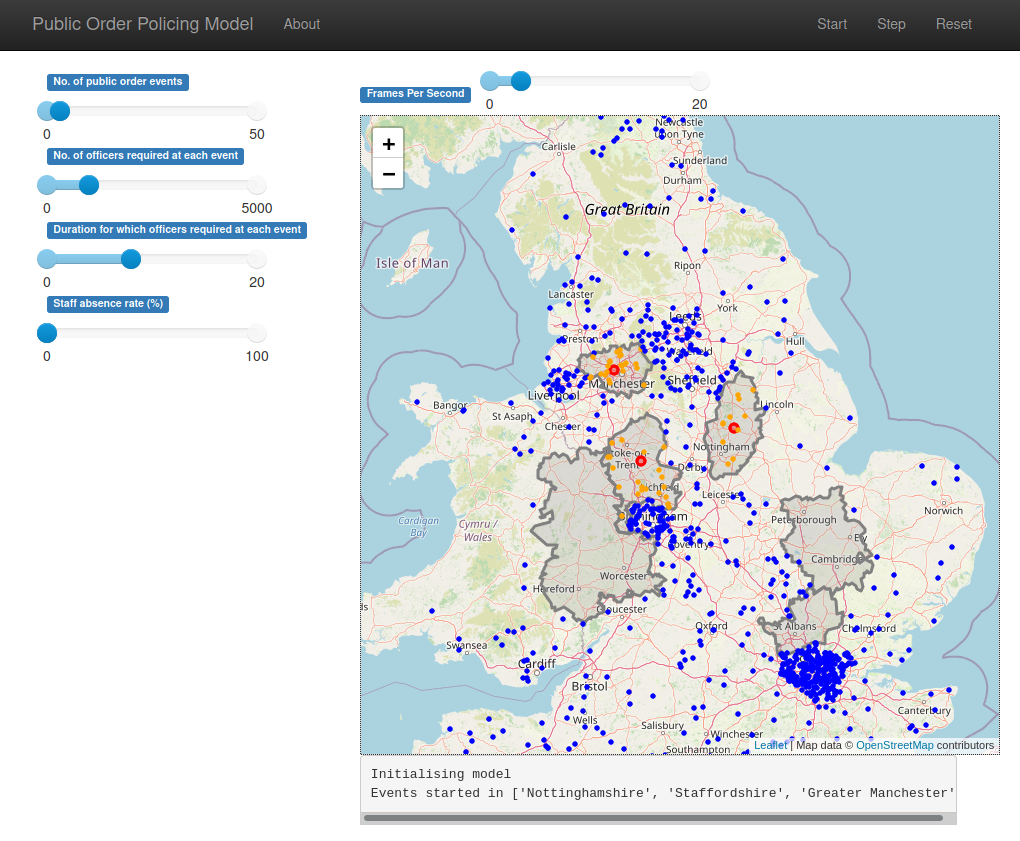
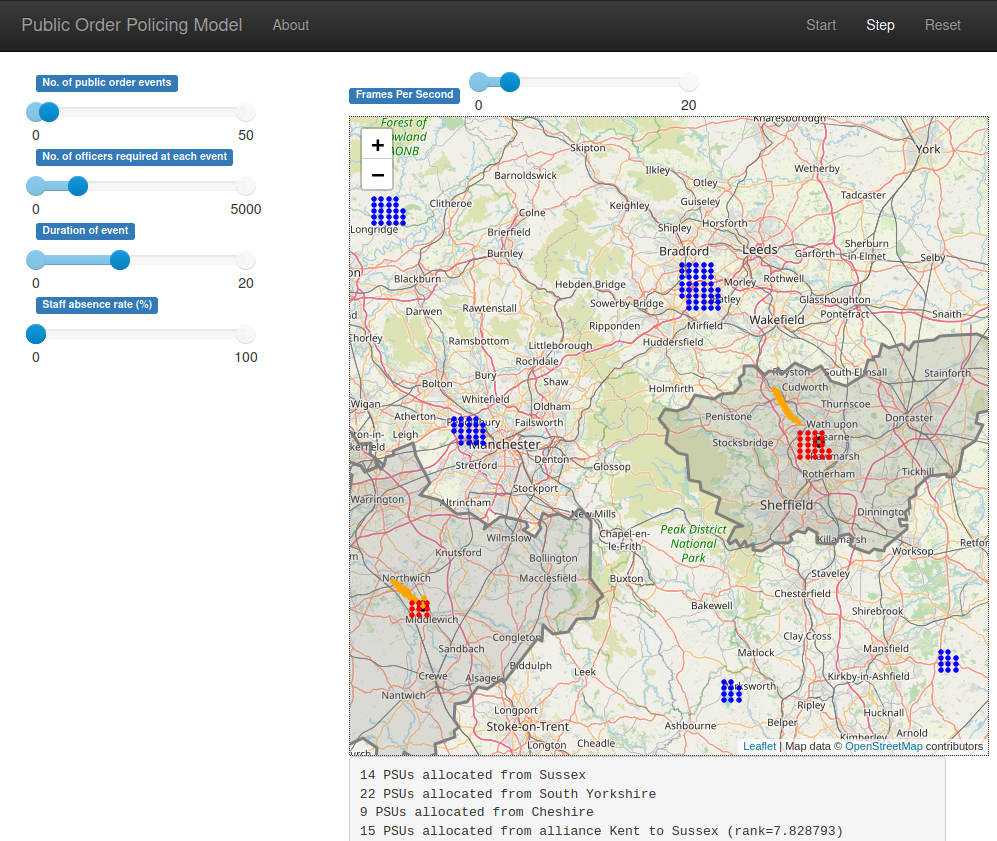
minor updates to doc

diff --git a/README.md b/README.md
@@ -12,9 +12,10 @@
 - [X] Allocate PSUs within event's force area
 - [X] Allocate PSUs as necessary from other force areas within alliance
 - [X] Allocate PSUs if necessary from force areas outside alliance
-- [ ] Move PSUs to events
+- [X] Move PSUs to events
+- [ ] Return PSUs when events over
 
-Deployed [here](https://popm.azurewebsites.net)
+popm is deployed as an app service [here](https://popm.azurewebsites.net)
 
 ## Developer Setup
 
